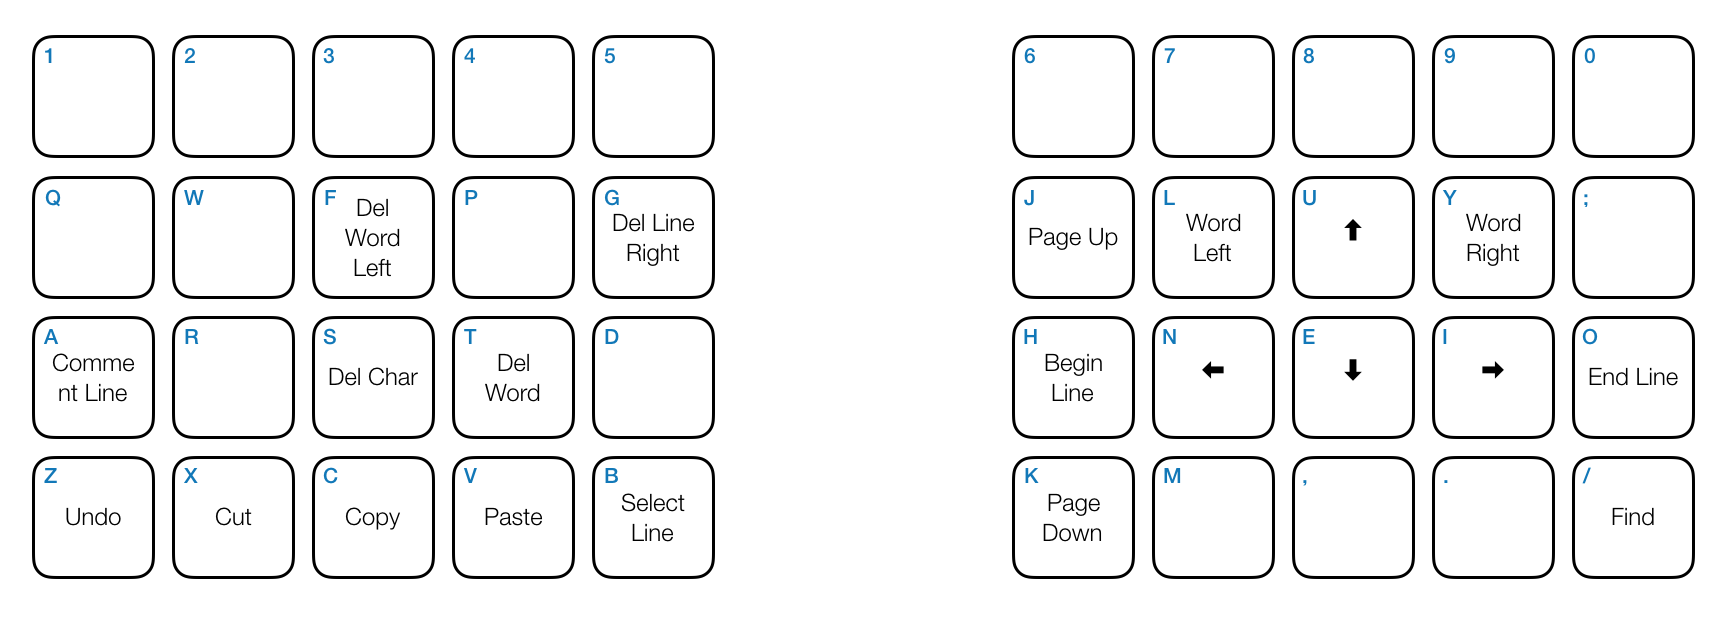
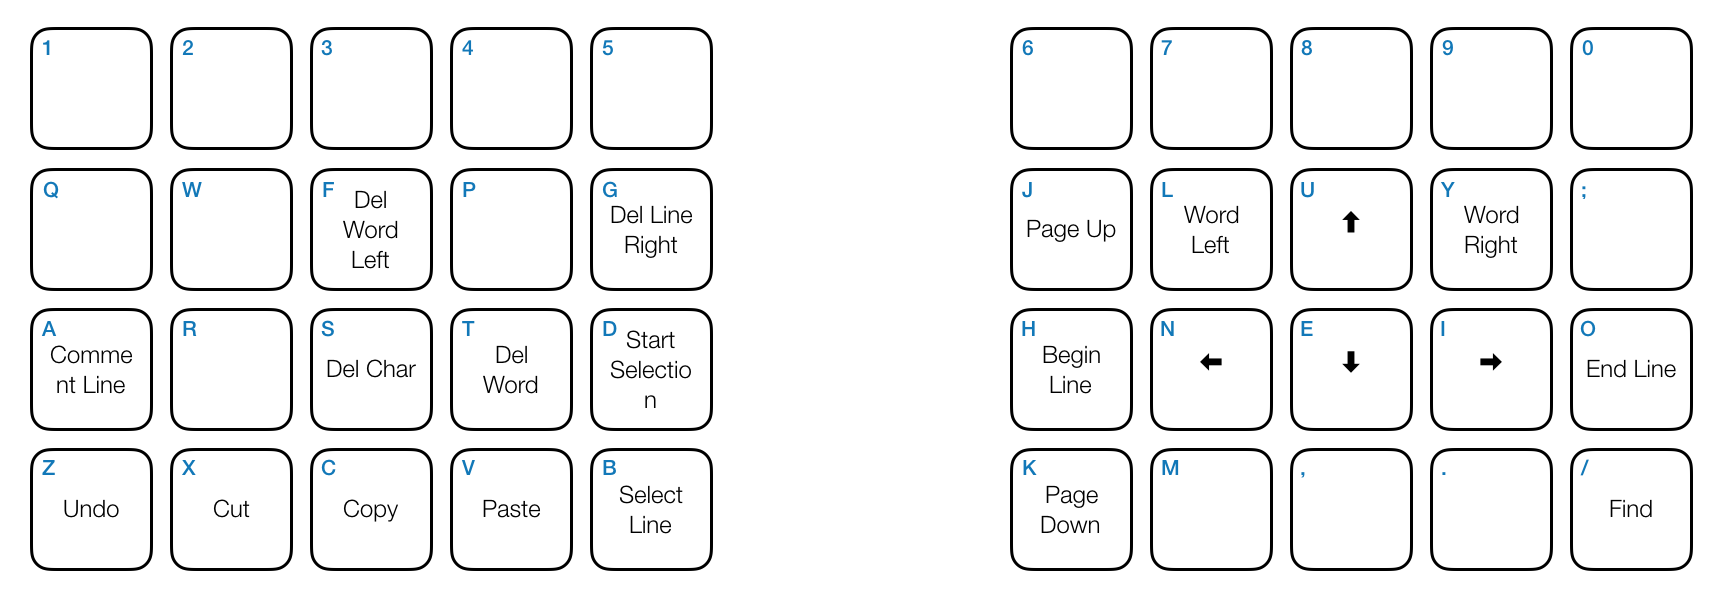
version 0.3.0

Changed region(s): [[0.0, 0.0302, 0.4309, 0.9664], [0.5848, 0.0302, 0.9849, 0.9664]]

diff --git a/README.md b/README.md
@@ -13,6 +13,46 @@ one for executing commands and one for entering texts(like `vi`). You toggle bet
 Command mode layout
 ![Command mode layout](images/keyboard.png)
 
+## Key bindings
+
+| key | description  |
+|---|---|
+| a  | Comment current line.  |
+| b  | Select current line.  |
+| c  | Copy selection. If no selection, copy current line.  |
+| d  | Start selection mode.  |
+| e  | Move cursor down.  |
+| f  | Delete word left.  |
+| g  | Delete line right.  |
+| h  | Move cursor to the beginning of line.  |
+| i  | Move cursor right.  |
+| j  | Move cursor page up.  |
+| J  | Move cursor to the beginning of file.  |
+| k  | Move cursor page down.  |
+| K  | Move cursor to the end of file.  |
+| l  | Move cursor word left.  |
+| m  |   |
+| n  | Move cursor left.  |
+| o  | Move cursor to the end of line.  |
+| p  |   |
+| q  |   |
+| r  |   |
+| s  | Delete character right.  |
+| t  | Delete word right.  |
+| u  | Move cursor up.  |
+| v  | Paste.  |
+| w  |   |
+| x  | Cut.  |
+| y  | Move cursor word right.  |
+| z  | Undo.  |
+| /  | Find.  |
+| *  | Find current word.  |
+| home  | Toggle insert/command mode.  |
+| space b n  | Previous editor.  |
+| space b i  | Next editor.  |
+| space b u  | Navigate back.  |
+| space b e  | Navigate forward.  |
+
 ## Extension Settings
 
 You can change the key for toggling modes:
@@ -29,6 +69,11 @@ Initial release.
 ### 0.2.0
 
 Added commands `space b n`, `space b i` for previous editor, next editor.
+
+### 0.3.0
+
+Added command `space b u`, `space b e` for navigate back, navigate forward.
+Added command `d` for starting selection.
 
 ## Acknowledgment
 

diff --git a/CHANGELOG.md b/CHANGELOG.md
@@ -10,3 +10,8 @@ Check [Keep a Changelog](http://keepachangelog.com/) for recommendations on how 
 
 ## [0.2.0]
 - Added commands `space b n`, `space b i` for previous editor, next editor.
+
+## [0.3.0]
+
+- Added command `space b u`, `space b e` for navigate back, navigate forward.
+- Added command `d` for starting selection.
